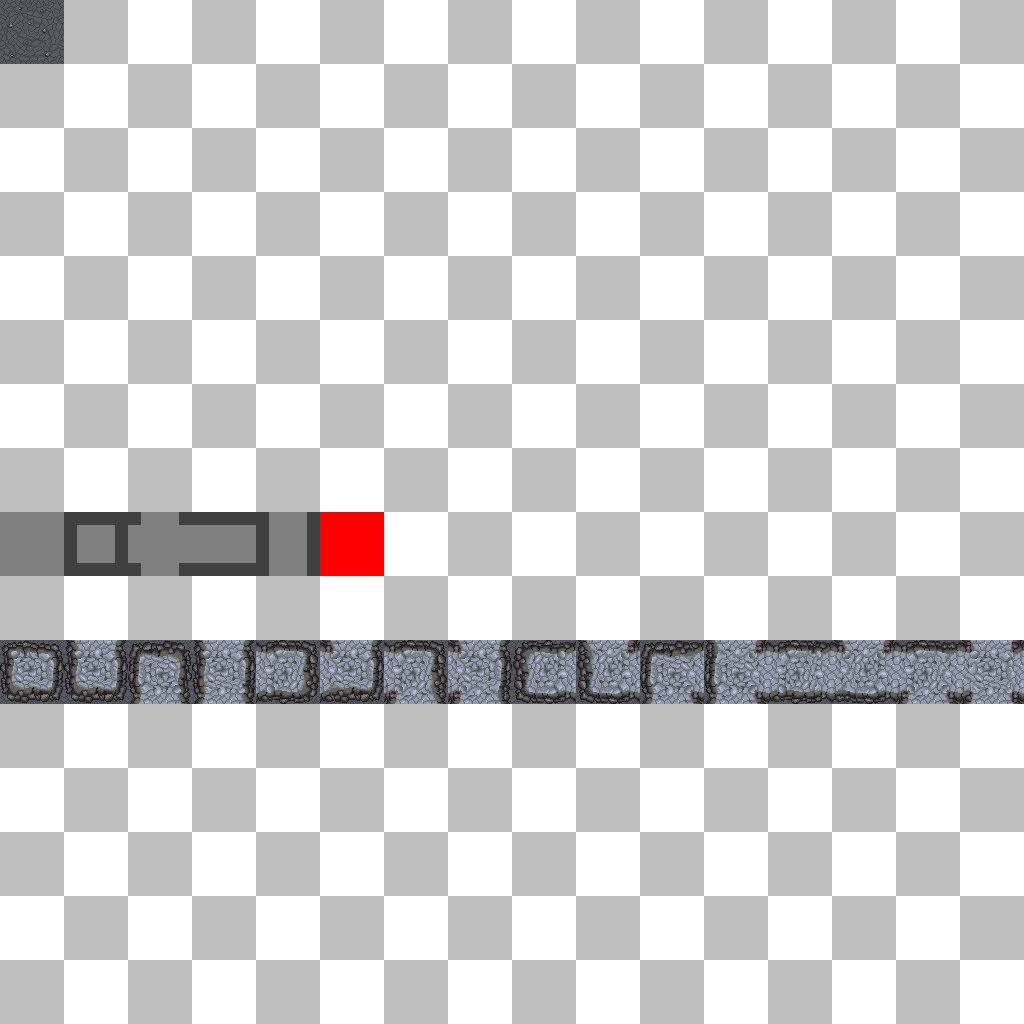
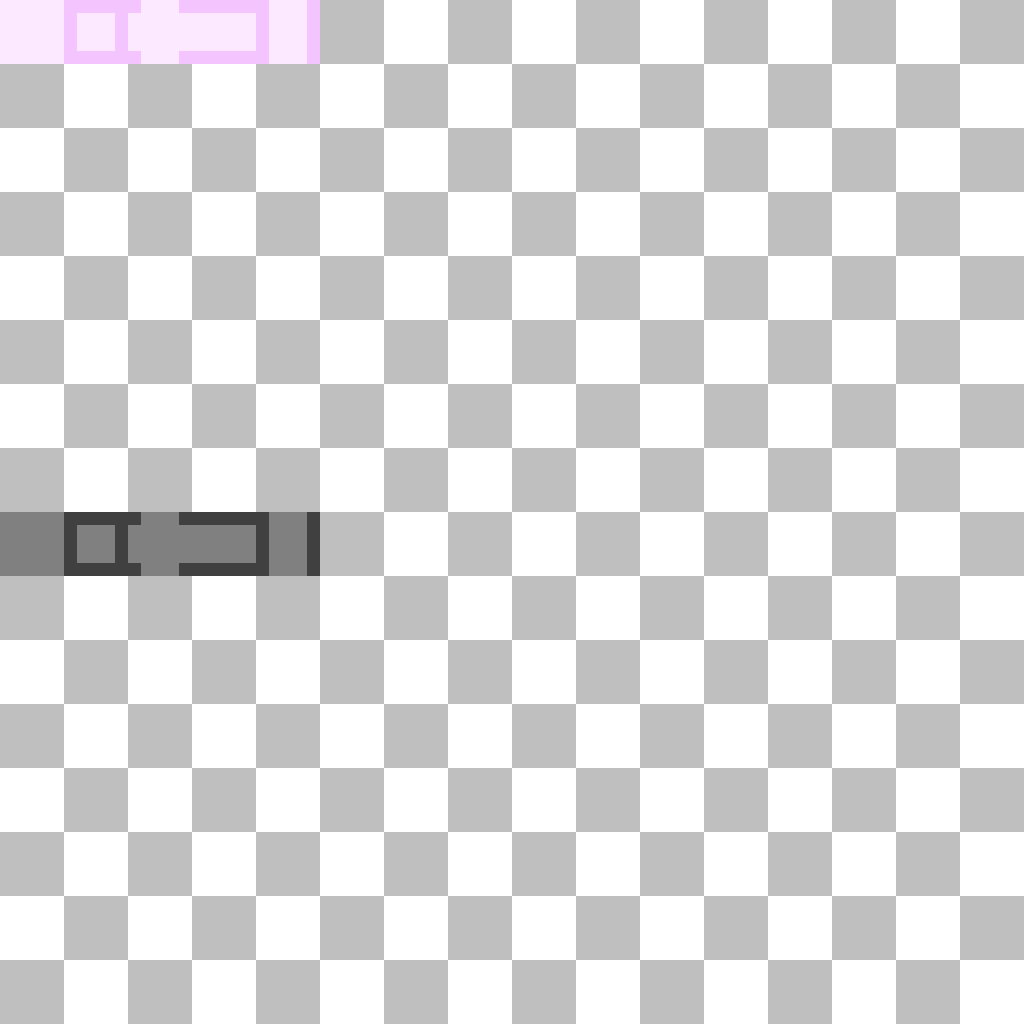
New sub-tile method for floors as well as walls.

Changed region(s): [[0.0, 0.625, 1.0, 0.6875], [0.0, 0.0, 0.3125, 0.0625], [0.3125, 0.5, 0.375, 0.5625]]

diff --git a/src/Steve/QuickMazeMaker.java b/src/Steve/QuickMazeMaker.java
@@ -48,66 +48,54 @@ public class QuickMazeMaker {
     
     public static int[][] fixEdges(int[][] maze) {
 
-        Random rnd = new Random();
-
         int width = maze.length;
         int height = maze[0].length;
         
         for (int p = 0; p < width; p++) {
             for (int q = 0; q < height; q++) {
-                if (maze[p][q] >= 128) {
 
-                    int quarter1 = 0;
-                    int quarter2 = 0;
-                    int quarter3 = 0;
-                    int quarter4 = 0;
+                boolean solid = maze[p][q]%256 >= 128;
 
-                    /*if (p == width-1 && q == height-1) quarter1 = 2;
-                    else if (p == 0 && q == height-1) quarter2 = 2;
-                    else if (p == width-1 && q == 0) quarter3 = 2;
-                    else if (p == 0 && q == 0) quarter4 = 2;
-                    else if (p == 0) { quarter2 = 4; quarter4 = 4; }
-                    else if (q == 0) { quarter3 = 3; quarter4 = 3; }
-                    else if (p == width-1) { quarter1 = 4; quarter3 = 4; }
-                    else if (q == height-1) { quarter1 = 3; quarter2 = 3; }
-                    else {*/
+                int quarter1 = 0;
+                int quarter2 = 0;
+                int quarter3 = 0;
+                int quarter4 = 0;
 
-                    boolean north   = q > 0         && maze[p][q - 1] >= 128;
-                    boolean south   = q < height-1  && maze[p][q + 1] >= 128;
-                    boolean east    = p < width-1   && maze[p + 1][q] >= 128;
-                    boolean west    = p > 0         && maze[p - 1][q] >= 128;
+                boolean north   = q > 0         &&  (solid ? maze[p][q - 1]%256 >= 128 : maze[p][q - 1]%256 < 128);
+                boolean south   = q < height-1  &&  (solid ? maze[p][q + 1]%256 >= 128 : maze[p][q + 1]%256 < 128);
+                boolean east    = p < width-1   &&  (solid ? maze[p + 1][q]%256 >= 128 : maze[p + 1][q]%256 < 128);
+                boolean west    = p > 0         &&  (solid ? maze[p - 1][q]%256 >= 128 : maze[p - 1][q]%256 < 128);
 
-                    boolean north_east = q > 0          && p < width-1  && maze[p + 1][q - 1] >= 128;
-                    boolean north_west = q > 0          && p > 0        && maze[p - 1][q - 1] >= 128;
-                    boolean south_east = q < height-1   && p < width-1  && maze[p + 1][q + 1] >= 128;
-                    boolean south_west = q < height-1   && p > 0        && maze[p - 1][q + 1] >= 128;
+                boolean north_east = q > 0          && p < width-1  &&  (solid ? maze[p + 1][q - 1]%256 >= 128 : maze[p + 1][q - 1]%256 < 128);
+                boolean north_west = q > 0          && p > 0        &&  (solid ? maze[p - 1][q - 1]%256 >= 128 : maze[p - 1][q - 1]%256 < 128);
+                boolean south_east = q < height-1   && p < width-1  &&  (solid ? maze[p + 1][q + 1]%256 >= 128 : maze[p + 1][q + 1]%256 < 128);
+                boolean south_west = q < height-1   && p > 0        &&  (solid ? maze[p - 1][q + 1]%256 >= 128 : maze[p - 1][q + 1]%256 < 128);
 
-                    if (!north && !west)                quarter1 = 1;
-                    if (!north_west && north && west)   quarter1 = 2;
-                    if (!north && west)                 quarter1 = 3;
-                    if (north && !west)                 quarter1 = 4;
+                if (!north && !west)                quarter1 = 1;
+                if (!north_west && north && west)   quarter1 = 2;
+                if (!north && west)                 quarter1 = 3;
+                if (north && !west)                 quarter1 = 4;
 
-                    if (!north && !east)                quarter2 = 1;
-                    if (!north_east && north && east)   quarter2 = 2;
-                    if (!north && east)                 quarter2 = 3;
-                    if (north && !east)                 quarter2 = 4;
+                if (!north && !east)                quarter2 = 1;
+                if (!north_east && north && east)   quarter2 = 2;
+                if (!north && east)                 quarter2 = 3;
+                if (north && !east)                 quarter2 = 4;
 
-                    if (!south && !west)                quarter3 = 1;
-                    if (!south_west && south && west)   quarter3 = 2;
-                    if (!south && west)                 quarter3 = 3;
-                    if (south && !west)                 quarter3 = 4;
+                if (!south && !west)                quarter3 = 1;
+                if (!south_west && south && west)   quarter3 = 2;
+                if (!south && west)                 quarter3 = 3;
+                if (south && !west)                 quarter3 = 4;
 
-                    if (!south && !east)                quarter4 = 1;
-                    if (!south_east && south && east)   quarter4 = 2;
-                    if (!south && east)                 quarter4 = 3;
-                    if (south && !east)                 quarter4 = 4;
+                if (!south && !east)                quarter4 = 1;
+                if (!south_east && south && east)   quarter4 = 2;
+                if (!south && east)                 quarter4 = 3;
+                if (south && !east)                 quarter4 = 4;
 
-                    maze[p][q] += 256 * quarter1;
-                    maze[p][q] += 256 * 16 * quarter2;
-                    maze[p][q] += 256 * 256 * quarter3;
-                    maze[p][q] += 256 * 4096 * quarter4;
+                maze[p][q] += 256 * quarter1;
+                maze[p][q] += 256 * 16 * quarter2;
+                maze[p][q] += 256 * 256 * quarter3;
+                maze[p][q] += 256 * 4096 * quarter4;
 
-                }
             }
         }
 

diff --git a/src/GameClient.java b/src/GameClient.java
@@ -43,7 +43,7 @@ public class GameClient extends Application {
     static int viewportPosition = 0;
 
     public static String serverAddress = "localhost";
-    public static boolean fullscreen = false;
+    public static boolean fullscreen = true;
 
     public static int[][] map = null;
 
